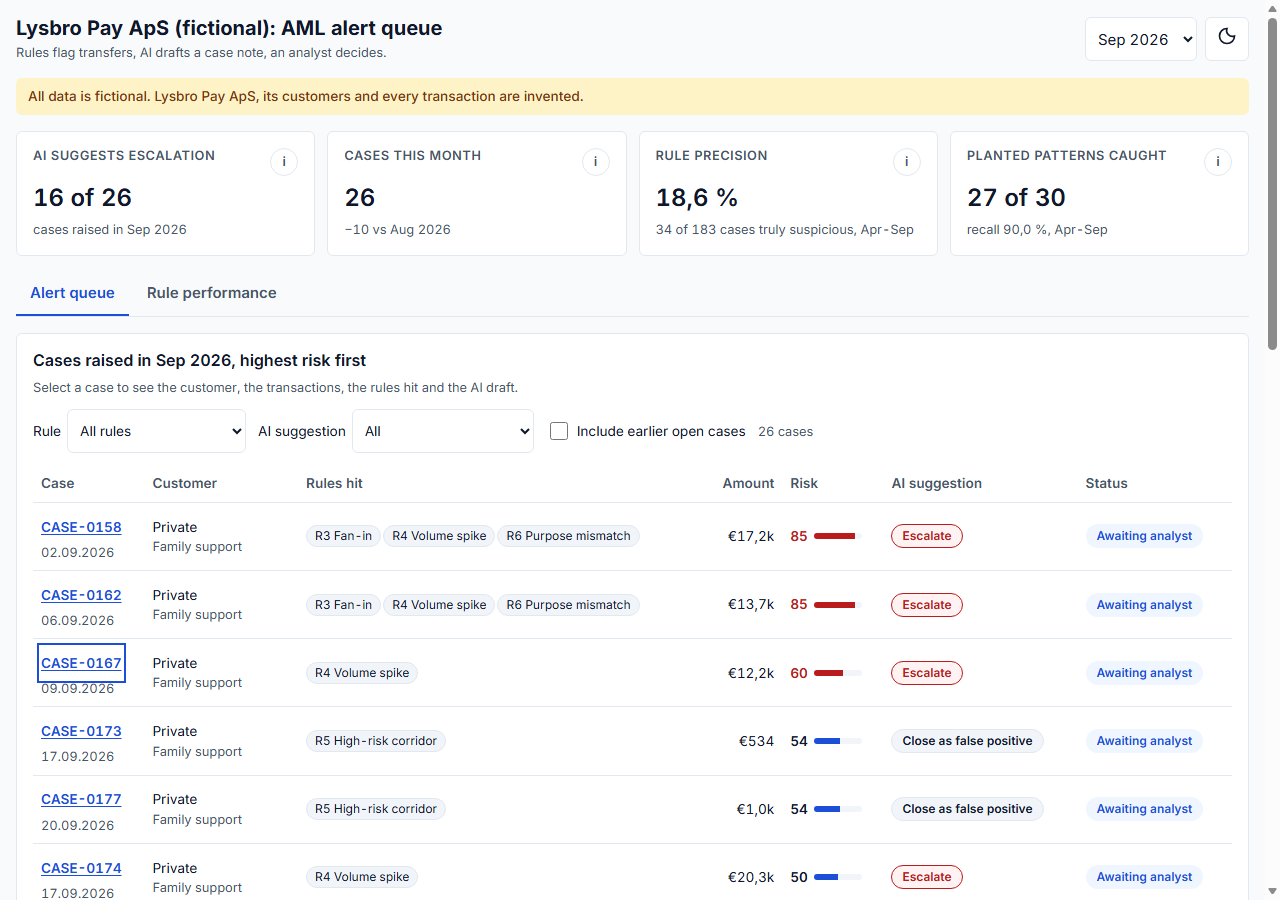
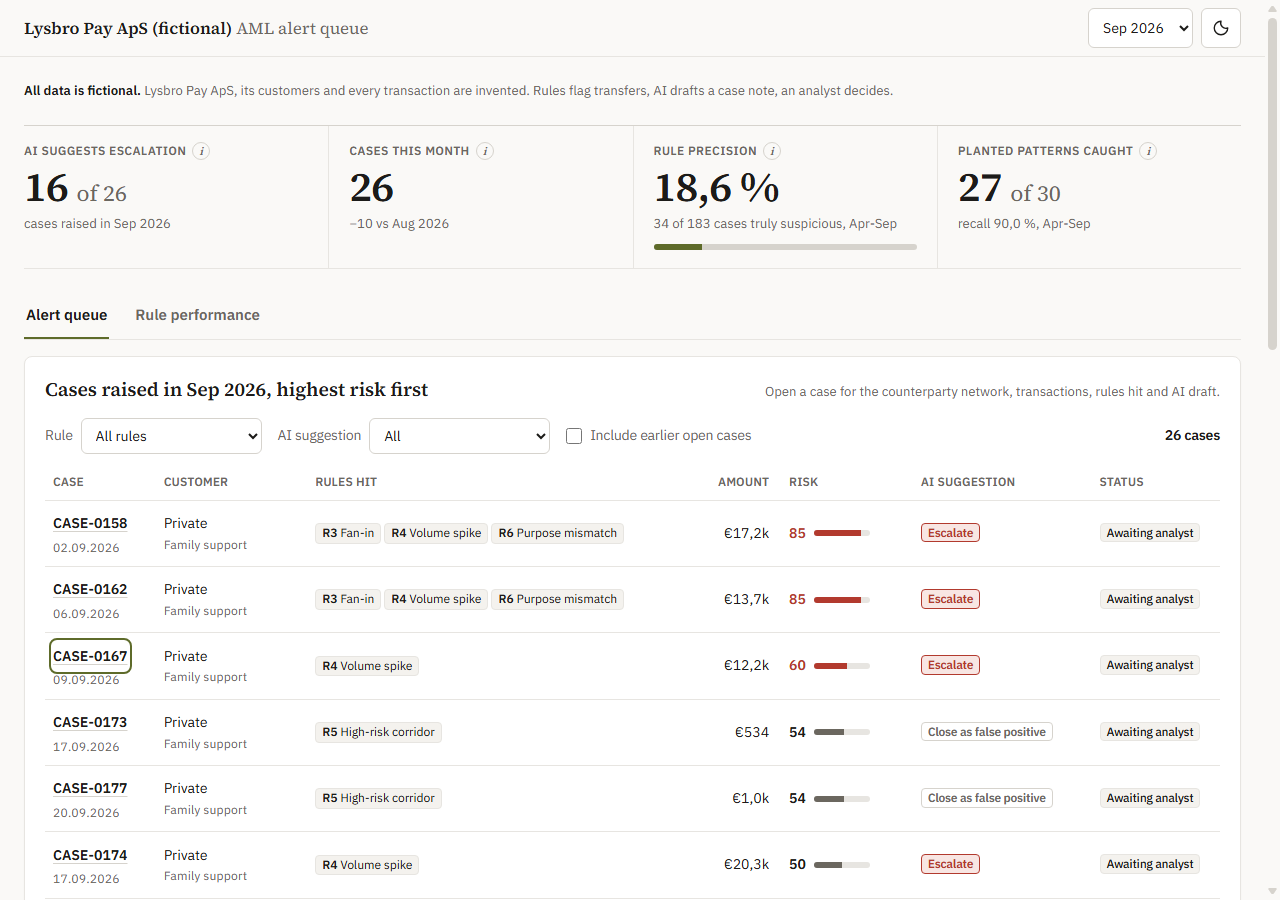
Live check after the redesign push: 40 of 41, the failure is a browser-injected script error

diff --git a/docs/decisions.md b/docs/decisions.md
@@ -137,3 +137,5 @@ Unattended run. No change to the generator, seed, data, `config/rules.yaml`, rul
 **Bundle** (JS in `web/out/_next/static/chunks`, gzip). Before: 438 KB, all loaded by the queue page (most of it is the case and transaction JSON). After: the queue page loads 434 KB (Recharts left the rule tab); the network chunk (d3-force plus 1.831 network rows) adds 32 KB and loads only when a case opens. Total 466 KB. Raw: 2,18 MB before; 2,16 MB first load and 2,60 MB in total after.
 
 **Screenshots.** `tests/redesign_shots.mjs before|after|compare` writes `docs/screenshots/redesign/`: before and after for desktop light and dark, 375 px, the CASE-0158 drill-down and Rule performance; after only for the CASE-0158 network at desktop and 375 px and the CASE-0173 network in dark (red rings); `compare-*.png` side by side.
+
+**Live check** (once, 2 minutes after Knut pushed 45bb356): 40 of 41 checks pass on https://lysbro-aml.vercel.app, including the network, linking, keyboard and reduced-motion checks and the Open Graph image (200). The one failure is a console error "SyntaxError: Identifier 'AssistantLoadState' has already been declared", which does not come from the site: no such name exists in the code (Edge injects a script of its own; P2's live_check.mjs filters errors to the site's own scripts for this reason). Not rerun, to avoid Vercel's bot protection. Live screenshots in `docs/screenshots/live/`.
